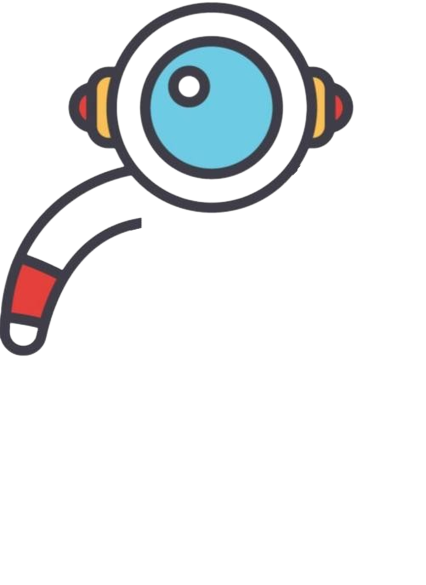
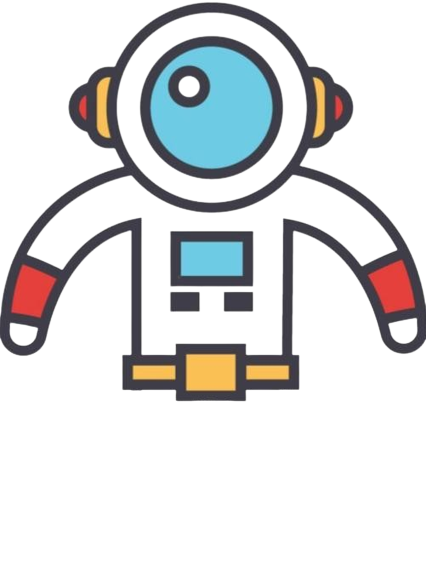
Update Js with Mario. Figured out the image path.

Changed region(s): [[0.2746, 0.2769, 1.0, 0.7077], [0.3967, 0.3692, 0.6103, 0.5538]]

diff --git a/js/main.js b/js/main.js
@@ -1,194 +1,73 @@
-  /*----- constants -----*/
-//word bank that will be randomized and be the secret word. 
-const WORD_BANK = ['CRATE','SLANT', 'TRACE', 'ROAST', 'BEANS', 'ADIEU' ]; 
-//number of guesses that the player gets
-const MAX_GUESSES = 5;
-// do I need to include the entire alphabet to run through? 
-// const LETTERS = ['a'];
-  /*----- state variables -----*/
-
-let blankSpaces;
-
-let solutionWord; //randomly generated word is held here. 
-
-let remainingTries; // how many tries left
-
-let letter; //letter of word
-
-let result; //if you guessed the word before tries runs out
-
-// let selectedLetters = []; // the player choice goes in here 
-
-
-  /*----- cached elements  -----*/
-// const letterSelect = document.getElementById('keyboard');
-const keyboardLetters = document.querySelectorAll('keyboard > p');
-const playAgainButton = document.querySelector('button');
-const gameMessage = document.getElementById('message');
-const wordEl = document.getElementById('guess');
-// V -- could this be just 'space 1' since the field is only one element?
-// const blankSpaces = document.getElementById('guess');
-
-  /*----- event listeners -----*/
-// document.getElementById('keyboard').addEventListener('click', playerChoice);
-playAgainButton.addEventListener('click', resetGame);
-// letterSelect.addEventListener('click', playerChoice);
-// document.querySelector('button').addEventListener('click', resetGame)
-
-  /*----- functions -----*/
-
-function render() {
-    // renderSolution();
-
-}
-  
-  
-// init();
-  
-// function init() {
-//     remainingTries = 5;
-//     solutionWord = randomWord();
-//     SelectedLetters = [];
-//     solutionWord.forEach(function() {
-//         let letterEl = document.createElement('div');
-//         wordEl.appendChild(letterEl);
-//     })
-//     render();
-// }
-    
-// function playerChoice(event) {
-//     if (event.target.tagName !== 'P' ||
-//     SelectedLetters.includes(event.target.innerText)
-//     ) return;
-//     SelectedLetters.push(event.target.innerText)
-//     if (solutionWord.includes(event.target.innerText)) {
-//         render();
-//     } else {
-//         remainingTries -= 1;
-//         render();
-//     }
-// };
-    
-// function renderSolution() {
-//     let letterEls = [...document.querySelectorAll('#guess > div')];
-//     solutionWord.forEach(function(letter, idx) {
-//         if (SelectedLetters.includes(letter)) {
-//             letterEls[idx].innerHTML = letter;
-//         }
-//     })
-// };
-
-function checkLetter() {
-
-}
-
-// function renderWord() {
-//     let letterEls = [...document.querySelectorAll(‘#word > div’)];
-//     word.forEach(function(letter, idx) {
-//         if (userChoice.includes(letter)) {
-//             letterEls[idx].innerHTML = letter;
-//         }
-//     })
-// }
-
-
-
-
-function randomWord() {
-   let wordIdx = Math.floor(Math.random() * WORD_BANK.length)
-   solutionWord = WORD_BANK[wordIdx].split('');
-   return solutionWord;
-};
-
-
-
-
-
-
-//This is moving the innertext of the click to the userChoiceArray
-// function playerChoice(event) {
-//     // userChoice = (event.target).innerText;
-//     if(event.target.tagName !== 'P') return;
-//     // userChoice[0] = event.target.innerText;
-//     userChoice.push(event.target.innerText);
-// }
-// use this in determining if there is a winner later
-// if(userChoice.length > MAX_GUESSES) return "you lose";
-
-
-        
-        //This is done
-        // this generates a random word from the WORD_BANK at the start of game.
-        // Then it splits it 
-
-        
-        
-        function resetGame() {
-            blankSpaces = ['null','null','null', 'null', 'null',];
-            SelectedLetters = ['null','null','null', 'null', 'null',];
-            solutionWord = randomWord();
-            // render();
-        }
-        
-        // function randomWord() {
-            //    let wordIdx = Math.floor(Math.random() * WORD_BANK.length)
-            //    currentWord = WORD_BANK[wordIdx];
-//    return currentWord.split('');
-// };
-
-
-
-
-//    This function will take the letter selected by the player and 
-// check it against the currentWord. 
-
-// we need to loop through the "currentWord" variable and see if it matches the letter that the player selected. 
-
-// function renderBoard() {
-// this function will take the information from playerChoice and update
-// the board accordingly. 
-// 1 add letter to blank space. 2remove piece of spaceman. 
-// 3 grey out letter on keyboard. 
-// }
-
-// --------------------------------------------------------------------
 
 const WORD_BANK1 = ['CRATES','BACKED', 'TRACES', 'BARELY', 'CLOSER', 'CLIENT' ]; 
 
-// let correctGuessLetters = [];
-let wrongGuessLetters = [];
-let correctGuessLetters = [];
-// const imagePath = `images/spaceman-0${wrongGuessLetters.length}.png`;
+let wrongGuessLetters;
 
-let remainingGuesses = 6
-let imagePath = `images/spaceman-0${remainingGuesses}.png`;
+let correctGuessLetters;
 
-let currentGuess;
 
-let solution = [];
+let remainingGuesses = 5;
 
-let selectedLetters = [];
+
+// let currentGuess;
+
+let solution;
+
+//This will determine win logic. Value of Null, W for win or L for loss
+let gameStatus;
+
+// let selectedLetters;
 
 // let solutionArray = solution.split('');
 
 
 
-//cached elements
-const correctLetter = document.querySelectorAll('guess > div');
-const spaceManImage = document.getElementById("spaceman");
-const inGameMessage = document.getElementById('livesLeft');
 
+//cached elements
+const correctLetter = document.getElementById('guess');
+const spaceManImage = document.querySelector("img");
+const livesLeft = document.getElementById('livesLeft');
+const wordEl = document.getElementById('guess');
+const playButton = document.getElementById('btn');
+const gameMessage = document.getElementById('message');
 // const removeObject = document.getElementById('spaceman5');
 // document.getElementById('keyboard').addEventListener('click', playTurn);
 document.getElementById('keyboard').addEventListener('click', playerLetterSelect);
-
+playButton.addEventListener('click', initialize);
 // functions
 // randomWordGenerator();
 initialize();
 
+function initialize() {
+    wrongGuessLetters = [];
+    gameStatus = null;
+    randomWordGenerator();
+    render();
+}
+
+function randomWordGenerator() {
+    let wordIndex = Math.floor(Math.random() * WORD_BANK1.length)
+    solution = WORD_BANK1[wordIndex].split('');
+    correctGuessLetters = solution.map(ltr => ltr === ' ' ? ' ' : '_' )
+    return correctGuessLetters;
+ };
+
+ function render() {
+     renderImage();
+     renderMessage();
+     correctLetter.textContent = correctGuessLetters.join('');
+     
+ }
+
+ function renderImage() {
+    const imagePath = `images/spaceman-0${wrongGuessLetters.length}.png`; 
+    spaceManImage.src = imagePath;
+ }
+
 function playerLetterSelect(event) {
     if(event.target.tagName !== 'P') return;
-    currentGuess = event.target.innerText;
+    currentGuess = event.target.textContent;
+    console.log(currentGuess)
     // if (selectedLetters.includes(currentGuess)) return;
     let correctGuess = isGuessInSolution(currentGuess);
     if(correctGuess === true) {
@@ -197,24 +76,29 @@ function playerLetterSelect(event) {
         console.log(correctGuessLetters)
         changeLetterSquareGreen(event.target);
         // display correct letter
-        displayCorrectLetter(event.target);
+        // displayCorrectLetter(event.target);
     } else { 
         // what happens if it is not correct?
         wrongGuessLetters.push(event.target.innerText);
         console.log(wrongGuessLetters)
         changeLetterSquareGrey(event.target);
-        remainingGuesses--;
+        // remainingGuesses--;
     }
+    gameStatus = getGameStatus();
     render()
 }
 
-function render() {
-    renderImage()
+function getGameStatus() {
+    if (!correctGuessLetters.includes('_')) return 'W'; 
+    if (wrongGuessLetters.length > remainingGuesses) return 'L';
+    return null;
 }
 
-function renderImage() {
-    spaceManImage.innerHTML = `<img src="images/spaceman-0${remainingGuesses}.png">`
+function isGuessInSolution(letter) {
+    return solution.includes(letter);
 }
+
+
 
 function displayCorrectLetter(target) {
     correctLetter.innerText = currentGuess;
@@ -235,24 +119,17 @@ function removeSpacemanLimb() {
     imagePath
 }
 
-function isGuessInSolution(letter) {
-    return solution.includes(letter);
+function renderMessage() {
+    if (gameStatus === 'W') {
+    gameMessage.innerText = `Congratulations!!`
+    } else if (gameStatus === 'L') {
+    gameMessage.innerText = `Oh no! You Lost! The secret word was ${solution.join('')}`
+    } else { 
+    gameMessage.innerText = `Keep Playing! You have ${remainingGuesses - wrongGuessLetters.length + 1} guesses left `
+
+    }
 }
 
-function randomWordGenerator() {
-    let wordIndex = Math.floor(Math.random() * WORD_BANK1.length)
-    solution = WORD_BANK1[wordIndex].split('');
-    return solution;
- };
-
-function initialize() {
-    solution = randomWordGenerator();
-    solution.forEach(function() {
-        let letterEl = document.createElement('div');
-        wordEl.appendChild(letterEl);
-    })
-    render();
-}
 
 // function renderSolutionv2(target) {
 //     //pushes the correctly selected letter to a new div element. 

diff --git a/index.html b/index.html
@@ -11,6 +11,7 @@
 <body class="flex-center"> 
     <h1>spaceman</h1>
     <h2 id="livesLeft"></h2>
+    <h2 id="message"></h2>
     <main>
     <div id="spaceman">
         <img src="images/spaceman-06.png">
@@ -48,7 +49,7 @@
         <p class="letter">X</p>
         <p class="letter">Y</p>
         <p class="letter">Z</p>
-        <button>Play Again</button>
+        <button id="btn">Play Again</button>
     </div>
     </main>
 </body>
